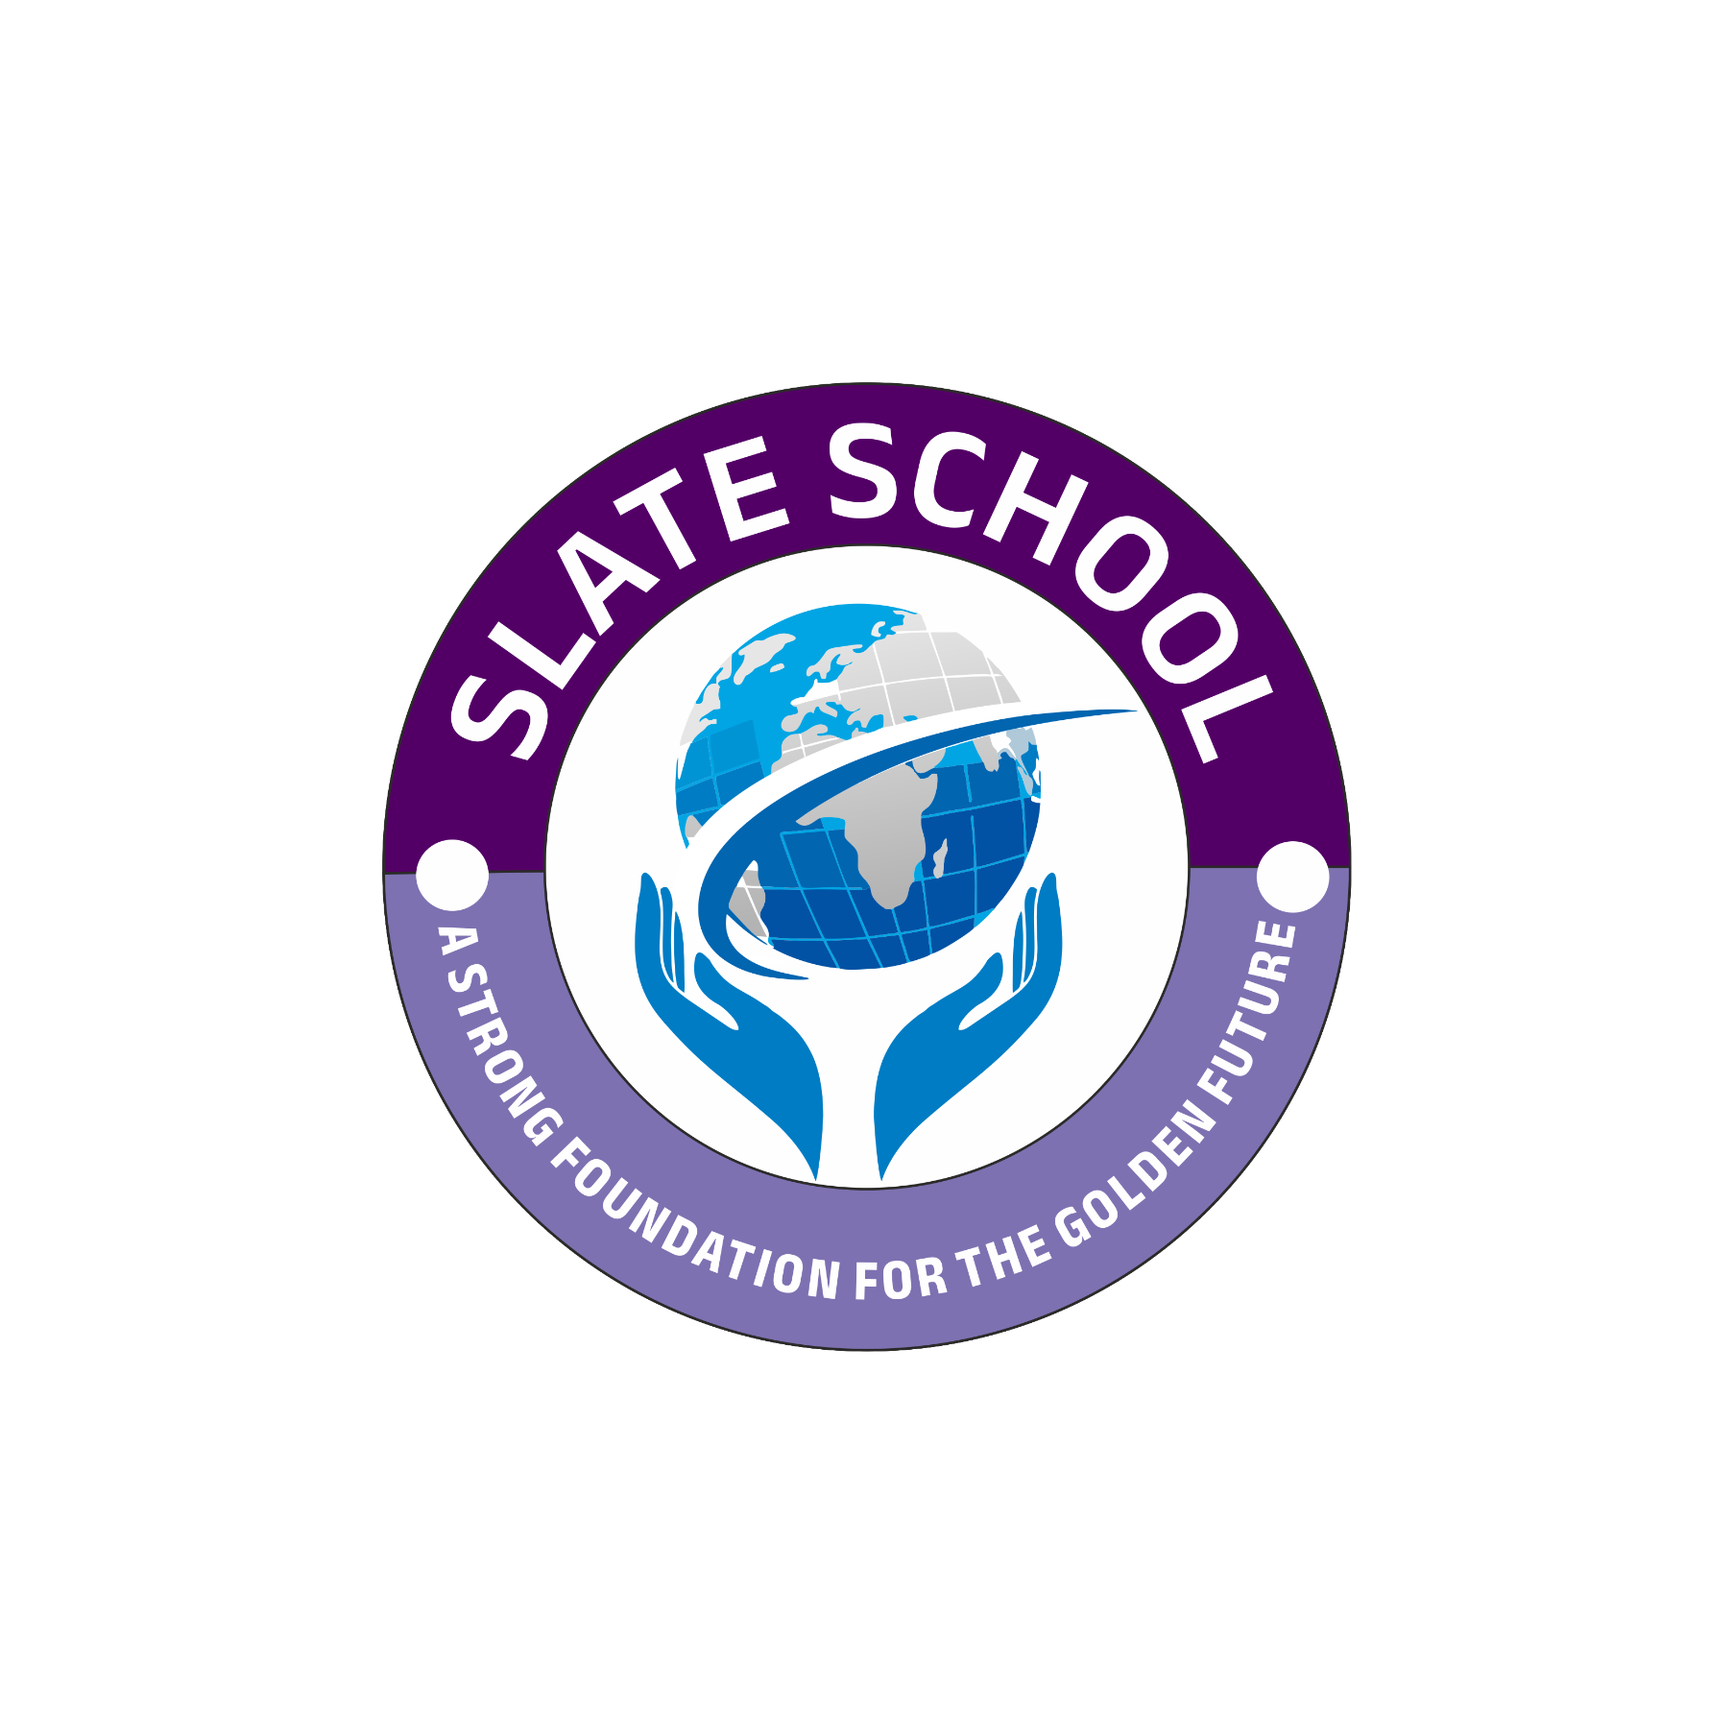
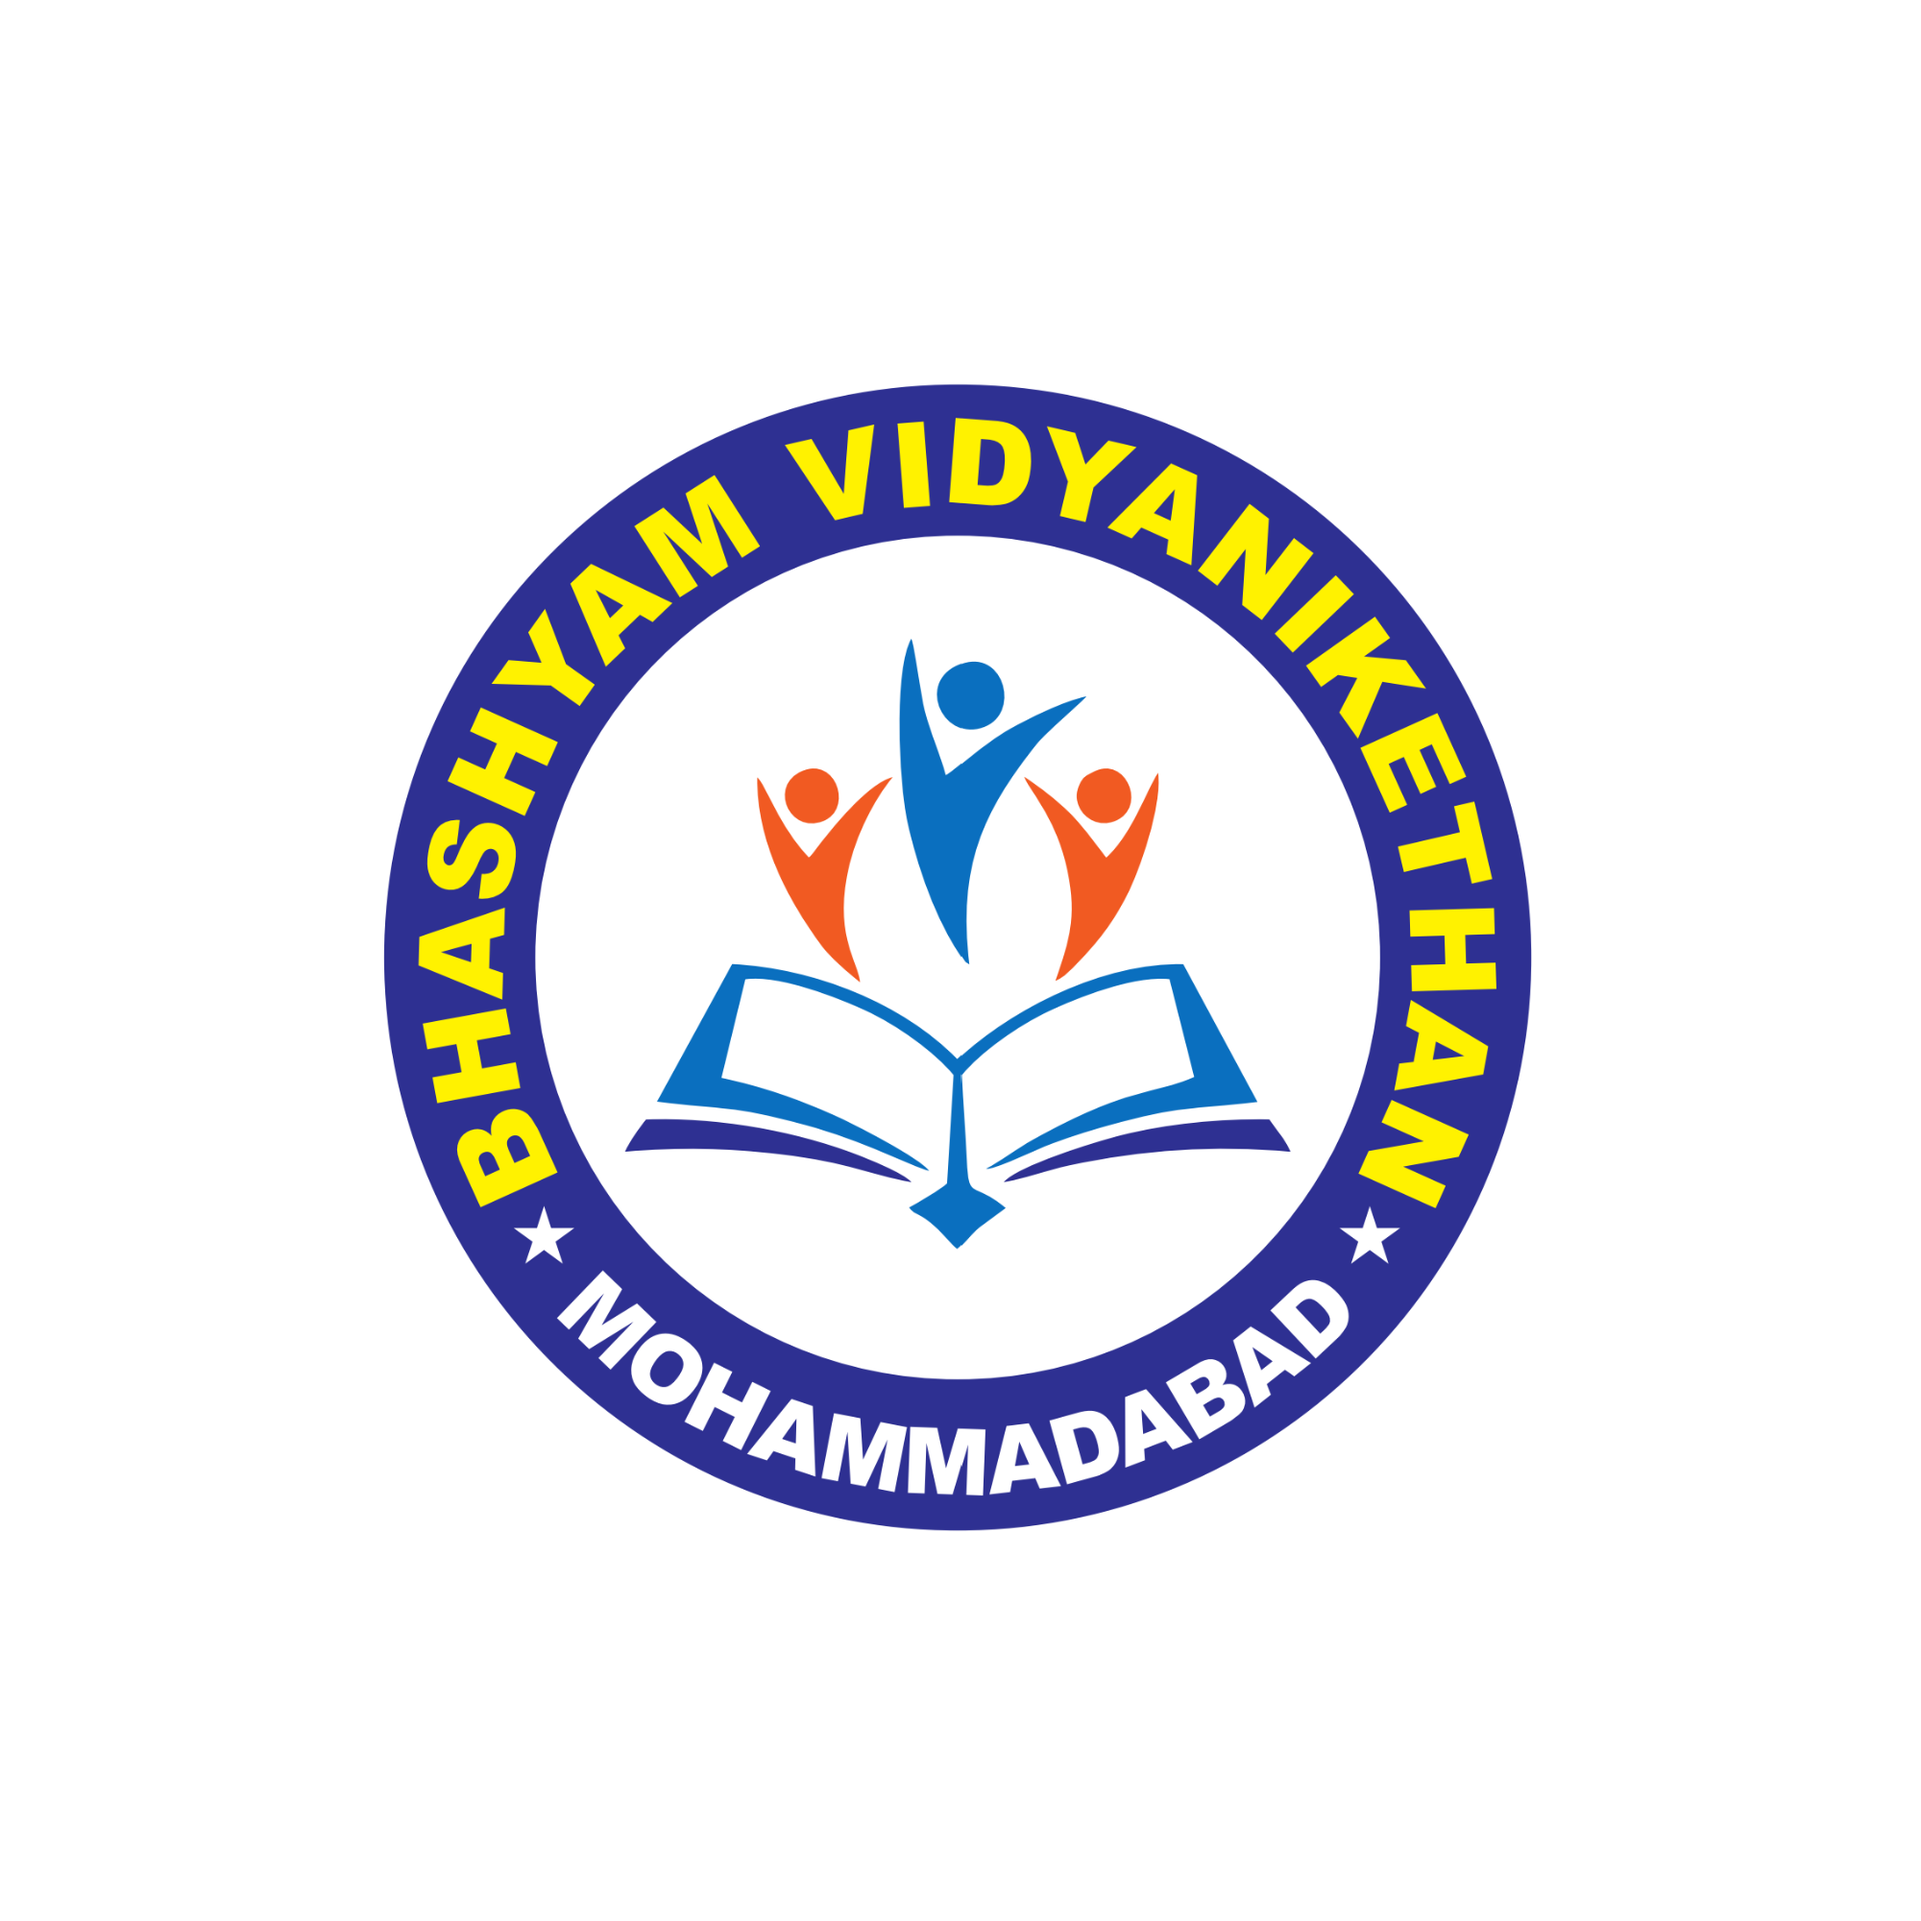
Configure BVS Mohammadabad branding, assets, and school-18 build profiles.

Changed region(s): [[0.186, 0.186, 0.8062, 0.8062]]

diff --git a/src/constants/schoolConfig.ts b/src/constants/schoolConfig.ts
@@ -51,54 +51,55 @@ export const schoolTheme: { light: SchoolTheme; dark: SchoolTheme } = {
     ...defaultLightTheme,
     colors: {
       ...defaultLightTheme.colors,
-      // Primary brand color – Deep Purple (from logo outer ring)
-      primary: '#665990',
-      primaryLight: '#665990',
-      primaryDark: '#3A1155',
-      // Secondary color – Lavender (from logo lower arc)
-      secondary: '#F57964',
-      // Accent color – Cerulean Blue (from logo globe & hands)
-      accent: '#0D8ECF',
-      // Backgrounds – subtle purple-tinted neutrals
-      background: '#F9F7FC',
+      // Extracted from assets/images/icon.png
+      // Primary – dark blue outer ring
+      primary: '#283090',
+      primaryLight: '#0A6FBF',   // Cerulean (center figure & book)
+      primaryDark: '#1E2468',    // Deep ring shadow
+      // Secondary – vibrant orange (side figures)
+      secondary: '#F05820',
+      // Accent – bright yellow (ring text "BHASHYAM VIDYANIKETHAN")
+      accent: '#F8F000',
+      // Backgrounds – cool blue-tinted neutrals
+      background: '#F8FAFC',
       surface: '#FFFFFF',
       card: '#FFFFFF',
-      // Text colors – deep purple-slate palette
-      textPrimary: '#2D2440',
-      textStrong: '#1A0E2E',
-      textSecondary: '#6B5F80',
-      textMuted: '#9B91AB',
-      text: '#2D2440',
-      textTertiary: '#9B91AB',
-      // Borders – purple-tinted
-      border: '#E4DFF0',
-      borderLight: '#F0ECF6',
+      // Text – logo dark blue
+      textPrimary: '#283090',
+      textStrong: '#1E2468',
+      textSecondary: '#475569',
+      textMuted: '#64748B',
+      text: '#283090',
+      textTertiary: '#64748B',
+      // Borders – blue-tinted
+      border: '#E2E8F0',
+      borderLight: '#F1F5F9',
       // Semantic colors
-      danger: '#EF4444',
+      danger: '#D32F2F',
       success: '#10B981',
       warning: '#F59E0B',
-      info: '#0D8ECF',
-      notification: '#EF4444',
-      // Navigation – purple pill tints
-      navPill: '#F0EBF7',
-      navIconActive: '#4B1A6B',
-      navIconInactive: '#9B91AB',
+      info: '#0A6FBF',           // Cerulean (logo book)
+      notification: '#F05820',
+      // Navigation – logo-blue pill tints
+      navPill: '#E0E4FF',
+      navIconActive: '#283090',
+      navIconInactive: '#64748B',
       // Header/Footer backgrounds (with transparency for glass effect)
-      headerBg: 'rgba(249,247,252, 0.88)',
+      headerBg: 'rgba(248,250,252, 0.88)',
       footerBg: 'rgba(255,255,255, 0.92)',
       // Alert colors
-      alertBg: '#FEFCE8',
-      alertBorder: '#FEF08A',
-      alertIcon: '#EAB308',
-      alertText: '#854D0E',
+      alertBg: '#EEF0FA',        // Light logo-blue wash
+      alertBorder: '#C5C9F0',
+      alertIcon: '#283090',
+      alertText: '#1E2468',
       alertBgDanger: '#FEF2F2',
       alertBorderDanger: '#FECACA',
-      alertIconDanger: '#EF4444',
+      alertIconDanger: '#D32F2F',
       alertTextDanger: '#991B1B',
-      alertBgInfo: '#EDF7FC',
-      alertBorderInfo: '#B3DFEF',
-      alertIconInfo: '#0D8ECF',
-      alertTextInfo: '#0A5F8A',
+      alertBgInfo: '#E6F4FE',    // Cerulean wash
+      alertBorderInfo: '#B3DDFB',
+      alertIconInfo: '#0A6FBF',
+      alertTextInfo: '#1E2468',
     },
     typography: {
       fontFamily: 'System',
@@ -162,54 +163,54 @@ export const schoolTheme: { light: SchoolTheme; dark: SchoolTheme } = {
     ...defaultDarkTheme,
     colors: {
       ...defaultDarkTheme.colors,
-      // Primary – lighter purple for dark mode legibility
-      primary: '#B48FD9',
-      primaryLight: '#CDB3E8',
-      primaryDark: '#9A6CC4',
-      // Secondary – light lavender
-      secondary: '#C4B8D8',
-      // Accent – brighter cerulean blue
-      accent: '#3DB5E8',
-      // Dark backgrounds – deep purple-ink tones
-      background: '#0D0A14',
-      surface: '#1A1526',
-      card: '#1A1526',
+      // Primary – lightened logo blue for dark-mode legibility
+      primary: '#8B93E8',
+      primaryLight: '#7EC4F0',   // Light cerulean
+      primaryDark: '#283090',   // Logo ring (full strength)
+      // Secondary – light orange for dark mode
+      secondary: '#FF8A55',
+      // Accent – logo yellow
+      accent: '#F8F000',
+      // Dark backgrounds – deep slate/blue tones
+      background: '#0E1228',
+      surface: '#1A1E3A',
+      card: '#1A1E3A',
       // Light text for dark backgrounds
-      textPrimary: '#E4DFF0',
-      textStrong: '#F3F0F8',
-      textSecondary: '#9B91AB',
-      textMuted: '#6B5F80',
-      text: '#E4DFF0',
-      textTertiary: '#6B5F80',
-      // Darker borders – purple-ink
-      border: '#2A2240',
-      borderLight: '#3D3358',
+      textPrimary: '#F1F5F9',
+      textStrong: '#FFFFFF',
+      textSecondary: '#94A3B8',
+      textMuted: '#64748B',
+      text: '#F1F5F9',
+      textTertiary: '#64748B',
+      // Darker borders – blue-tinted slate
+      border: '#2A2E52',
+      borderLight: '#3A3E68',
       // Lighter semantic colors for dark mode
       danger: '#F87171',
       success: '#34D399',
       warning: '#FBBF24',
-      info: '#3DB5E8',
-      notification: '#F87171',
-      // Navigation – purple tint
-      navPill: 'rgba(180,143,217, 0.15)',
-      navIconActive: '#B48FD9',
-      navIconInactive: '#4A3F62',
-      // Header/Footer with dark purple glass effect
-      headerBg: 'rgba(13,10,20, 0.88)',
-      footerBg: 'rgba(26,21,38, 0.92)',
+      info: '#5CC4F0',
+      notification: '#FF8A55',
+      // Navigation
+      navPill: 'rgba(40, 48, 144, 0.25)',
+      navIconActive: '#A8B0F0',
+      navIconInactive: '#94A3B8',
+      // Header/Footer glass
+      headerBg: 'rgba(14, 18, 40, 0.88)',
+      footerBg: 'rgba(26, 30, 58, 0.92)',
       // Alert colors (dark mode)
-      alertBg: 'rgba(234,179,8, 0.1)',
-      alertBorder: 'rgba(234,179,8, 0.2)',
-      alertIcon: '#FBBF24',
-      alertText: '#FEF08A',
-      alertBgDanger: 'rgba(239,68,68, 0.1)',
-      alertBorderDanger: 'rgba(239,68,68, 0.2)',
+      alertBg: 'rgba(40, 48, 144, 0.15)',
+      alertBorder: 'rgba(40, 48, 144, 0.3)',
+      alertIcon: '#A8B0F0',
+      alertText: '#A8B0F0',
+      alertBgDanger: 'rgba(248,113,113, 0.1)',
+      alertBorderDanger: 'rgba(248,113,113, 0.2)',
       alertIconDanger: '#F87171',
       alertTextDanger: '#FECACA',
-      alertBgInfo: 'rgba(13,142,207, 0.12)',
-      alertBorderInfo: 'rgba(13,142,207, 0.25)',
-      alertIconInfo: '#3DB5E8',
-      alertTextInfo: '#B3DFEF',
+      alertBgInfo: 'rgba(10, 111, 191, 0.15)',
+      alertBorderInfo: 'rgba(10, 111, 191, 0.3)',
+      alertIconInfo: '#5CC4F0',
+      alertTextInfo: '#B3DDFB',
     },
     typography: {
       fontFamily: 'System',
@@ -273,26 +274,26 @@ export const schoolTheme: { light: SchoolTheme; dark: SchoolTheme } = {
 
 export const SCHOOL_CONFIG = {
   // The official name of the school displayed in headers and reports
-  name: "Slate School Kosgi",
+  name: "Bhashyam Vidyanikethan Mohammadabad",
 
   // Short line under the school name on the header ribbon (gold text)
-  tagline: "You can learn something new everyday , If you listen",
+  tagline: "Education with Moral Values",
 
   // Motto / core values shown in the first info column of the ribbon (letterhead)
-  motto: "You believe in us we will prove it ",
+  motto: "Care and Achieve through Quality Education and Discipline",
 
   // The school logo used in headers and reports
   // Ensure the image exists in assets/images/
   logo: require('../../assets/images/icon.png'),
 
   // Optional: School Address for reports
-  address: "Slate School Kosgi , Hakeempet-Polepally road , Dist Narayanpet. Telangana-509339",
+  address: "Bhashyam Vidyanikethan School,VenkatReddypally Road, Mohammadabad,Mahabubnagar District, Telangana-509337",
 
   // Optional: Contact info for reports
-  contact: "9573530364",
+  contact: "9966868389",
 
   // Optional: School email for letterhead / reports
-  email: "slateschoolkosgi@gmail.com",
+  email: "bhashyamvidyanikethan@gmail.com",
 
   // Website or Email
   website: "www.nexsyrus.com",
@@ -301,23 +302,23 @@ export const SCHOOL_CONFIG = {
   cbseAffiliationNo: "NA",
 
   // School Code (if applicable)
-  schoolCode: "SSK",
+  schoolCode: "BVS",
 
   /**
    * Colour theme for ribbon / letterhead chrome (SchoolRibbon, etc.).
-   * Adjust `ribbonGradient` stops for your brand; `accent` drives gold trim and taglines.
+   * Extracted from logo: dark blue ring → cerulean book, yellow ring text.
    */
   theme: {
-    /** Stripes, tagline text, soft dividers – cerulean blue from logo globe */
-    accent: '#0D8ECF',
-    /** Four-stop diagonal ribbon – deep purple to lavender (logo ring) */
-    ribbonGradient: ['#F57964', '#F57964', '#F57964', '#F57964'] as const,
+    /** Bright yellow dividers & trim (logo ring text) */
+    accent: '#F8F000',
+    /** Tagline + info-column labels – logo yellow */
+    ribbonTagline: '#F8F000',
+    /** Four-stop vertical ribbon – deep ring blue → cerulean */
+    ribbonGradient: ['#1E2468', '#283090', '#1A5AA0', '#0A6FBF'] as const,
     /** Optional stops for expo-linear-gradient (length must match ribbonGradient) */
     ribbonGradientLocations: [0, 0.30, 0.65, 1] as const,
     /** Main title on the ribbon */
     ribbonTitle: '#FFFFFF',
-    /** Tagline under school name on the ribbon */
-    ribbonTagline: '#FFFFFF',
     /** Scrolling marquee dot separator */
     marqueeSeparator: 'rgba(255,255,255,0.85)',
     /** Letterhead / info column body */

diff --git a/src/components/SchoolRibbon.tsx b/src/components/SchoolRibbon.tsx
@@ -792,17 +792,16 @@ const shellStyles = StyleSheet.create({
 /* ------------------------------------------------------------------ */
 
 /*
- * Clay palette — sourced exclusively from `schoolTheme.light.colors`.
- * No invented hex swatches: every tone below is a direct SchoolTheme token
- * (or an alpha-blend of one), so the ribbon re-themes automatically if the
- * school's brand colours ever change.
+ * Clay palette — body/accent from `SCHOOL_CONFIG.theme` ribbon tokens so editing
+ * `ribbonGradient` / `accent` re-themes the letterhead. Deep carve uses
+ * primaryDark (plum/indigo) so inset chips stay recessed purple on the peach body.
  */
 const brand = schoolTheme.light.colors;
-const CLAY_BASE = brand.secondary;     // #F57964 — clay body hue
-const CLAY_DEEP = brand.primaryDark;   // #3A1155 — carve / ambient shadow
-const CLAY_SURFACE = brand.surface;    // #FFFFFF — logo puck & highlight sheen
-const CLAY_ACCENT = brand.accent;      // #0D8ECF — SchoolTheme's own "stripes / dividers" colour
-const CLAY_EDGE = brand.borderLight;   // #F0ECF6 — soft secondary stop for the logo puck
+const CLAY_BASE = ribbonTheme.ribbonGradient[1]; // mid peach — clay body hue
+const CLAY_DEEP = brand.primaryDark;            // indigo — carve / ambient shadow
+const CLAY_SURFACE = brand.surface;             // #FFFFFF — logo puck & highlight sheen
+const CLAY_ACCENT = ribbonTheme.accent;         // gold — stripes / dividers / crest
+const CLAY_EDGE = brand.borderLight;            // soft secondary stop for the logo puck
 
 /*
  * Premium high-fidelity clay extrusion stack.
@@ -997,7 +996,10 @@ const styles = StyleSheet.create({
 
     ...Platform.select({
       web: {
-        backgroundImage: `linear-gradient(165deg, ${schoolColorWithAlpha(CLAY_SURFACE, 0.38)} 0%, ${schoolColorWithAlpha(CLAY_SURFACE, 0)} 34%, ${schoolColorWithAlpha(CLAY_DEEP, 0)} 60%, ${schoolColorWithAlpha(CLAY_DEEP, 0.26)} 100%)`,
+        backgroundImage: [
+          `linear-gradient(165deg, ${schoolColorWithAlpha(CLAY_SURFACE, 0.38)} 0%, ${schoolColorWithAlpha(CLAY_SURFACE, 0)} 34%, ${schoolColorWithAlpha(CLAY_DEEP, 0)} 60%, ${schoolColorWithAlpha(CLAY_DEEP, 0.26)} 100%)`,
+          `linear-gradient(180deg, ${ribbonTheme.ribbonGradient[0]} 0%, ${ribbonTheme.ribbonGradient[1]} ${ribbonTheme.ribbonGradientLocations[1] * 100}%, ${ribbonTheme.ribbonGradient[2]} ${ribbonTheme.ribbonGradientLocations[2] * 100}%, ${ribbonTheme.ribbonGradient[3]} 100%)`,
+        ].join(', '),
         boxShadow: CLAY_CARD_SHADOW,
       } as object,
 

diff --git a/src/constants/adminTheme.ts b/src/constants/adminTheme.ts
@@ -2,12 +2,12 @@ import { ViewStyle } from "react-native";
 
 export const ADMIN_THEME = {
     colors: {
-        primary: '#665990', // Indigo/Violet
-        secondary: '#F57964',
+        primary: '#3535A8', // Royal Indigo (logo outer ring)
+        secondary: '#F26522', // Vibrant Orange (logo figures)
         success: '#10B981', // Emerald
         warning: '#F59E0B', // Amber
         danger: '#EF4444', // Rose
-        info: '#3B82F6', // Sky
+        info: '#0082C8', // Cerulean Blue (logo book/center figure)
         background: {
             app: '#F3F4F6', // Cool Gray 100
             surface: '#FFFFFF',
@@ -53,7 +53,7 @@ export const ADMIN_THEME = {
             elevation: 4,
         } as ViewStyle,
         lg: {
-            shadowColor: "#6366F1", // Colored shadow for emphasis
+            shadowColor: "#3535A8", // Colored shadow for emphasis (logo primary)
             shadowOffset: { width: 0, height: 10 },
             shadowOpacity: 0.15,
             shadowRadius: 20,

diff --git a/src/constants/Colors.ts b/src/constants/Colors.ts
@@ -1,7 +1,21 @@
+/**
+ * Extracted from: android-icon-foreground-v2.png (Bhashyam Vidyanikethan logo)
+ *
+ * Palette:
+ *   Ring / Badge ......... #3535A8  (Royal Indigo)
+ *   Ring Dark shade ...... #282889  (Deep Indigo)
+ *   Text on ring ......... #FFE600  (Bright Yellow / Gold)
+ *   Center figure/Book ... #0082C8  (Cerulean Blue)
+ *   Side figures ......... #F26522  (Vibrant Orange)
+ *   Book spine ........... #1A2B6D  (Navy)
+ *   Background ........... #FFFFFF  (White)
+ */
 export const Colors = {
-    primary: '#665990',
-    primaryDark: '#665990',
-    secondary: '#F57964',
+    primary: '#3535A8',       // Royal Indigo (logo outer ring)
+    primaryDark: '#282889',   // Deep Indigo (ring shadow/darker areas)
+    primaryLight: '#0082C8',  // Cerulean Blue (book & center figure)
+    secondary: '#F26522',     // Vibrant Orange (side figures)
+    accent: '#FFE600',        // Bright Yellow (text on ring)
     background: '#F8FAFC',
     text: '#1F2937',
     textStrong: '#111827',
